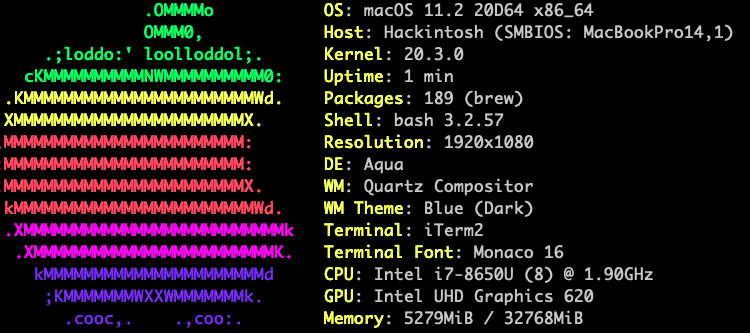
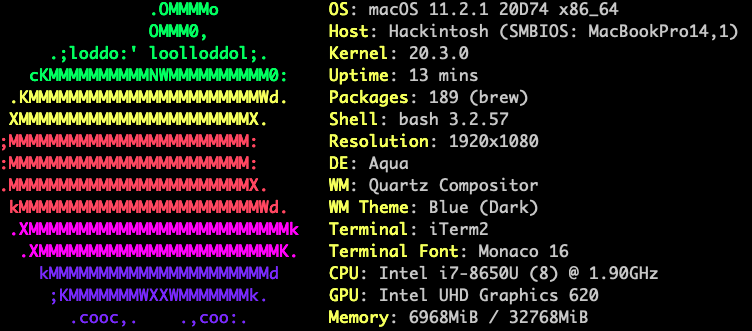
macOS 11.2.1 (20D74)

diff --git a/README.md b/README.md
@@ -14,7 +14,7 @@ Working (compared to other setup I've found):
 
 Tested with:
 * T480 i7-8650U FHD, 32GB RAM, NVME, nvidia MX150 deactivated in DSDT/SSDT
-* macOS 11.2 (20D64)
+* macOS 11.2.1 (20D74)
 * Wireless DW1560, NGFF Broadcom BCM4352 802.11ac with PCID [14e4:43b1]
 * Wireless DW1820a : use config.DW1820a.plist
 * CPU i7-8650U : use https://github.com/stevezhengshiqi/one-key-cpufriend for correct power-state/energy saving
